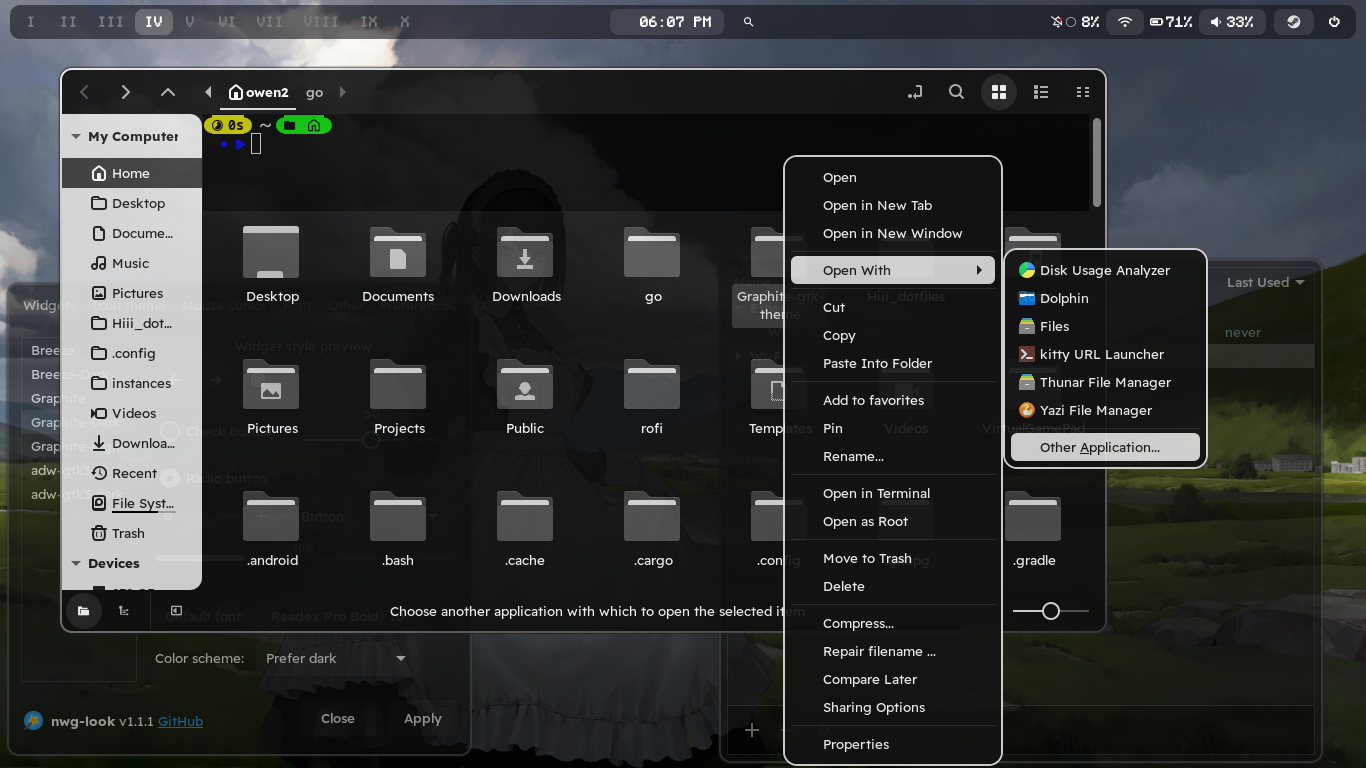
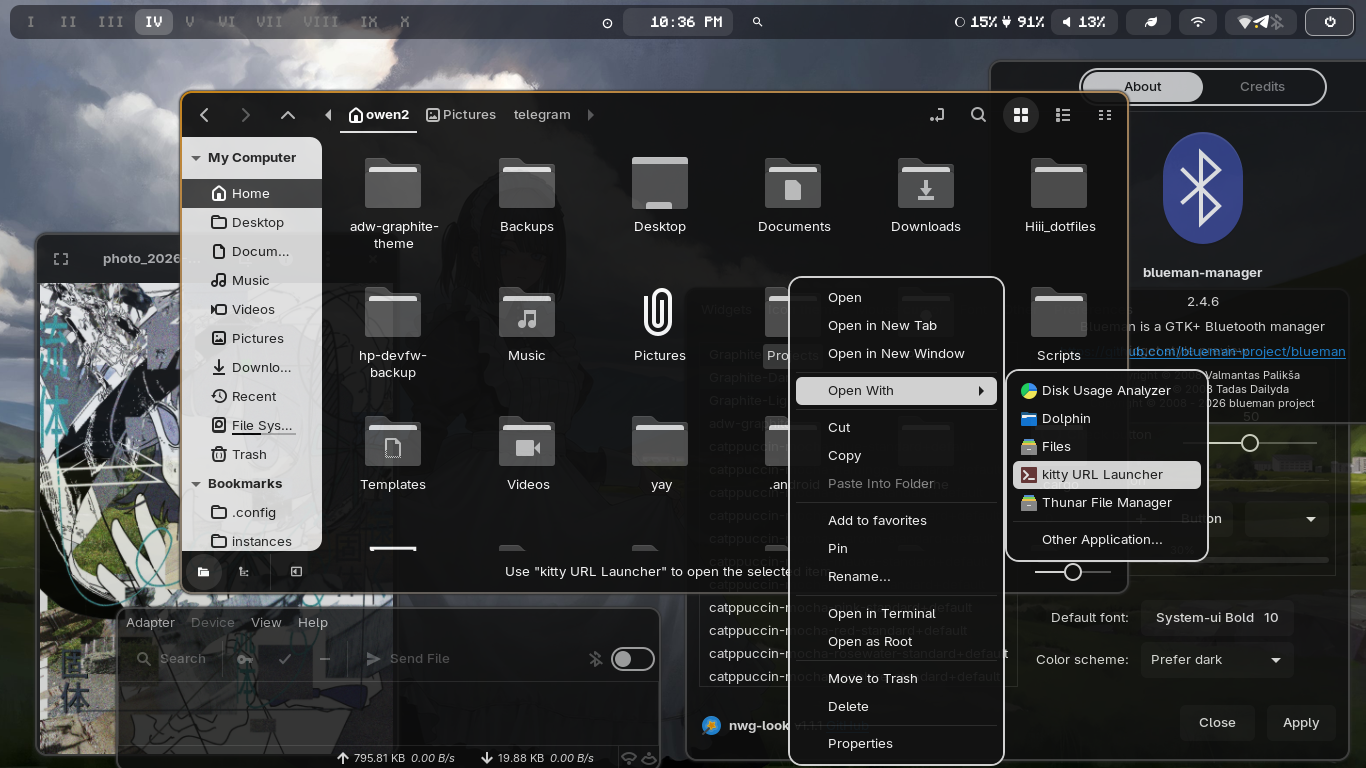
NEW BIG UPDATE

diff --git a/README.md b/README.md
@@ -22,10 +22,12 @@
 
 <div align="center">
   <img src="screenshots/main.png" alt="Hyprland Setup Overview" width="85%">
+  <img src="screenshots/larp.png" alt="pure larp nothing to say" width="85%">
   <img src="screenshots/overview.png" alt="Yayuuu Overview" width="85%">
   <img src="screenshots/rofi.png" alt="rofi" width="85%">
   <img src="screenshots/gtk.png" alt="nemo gtk themed" width="85%">
   <img src="screenshots/swaync.png" alt="swaync" width="85%">
+  <img src="screenshots/notifications.png" alt="notifications" width="85%">
   <img src="screenshots/wlogout.png" alt="wlogout" width="85%">
 </div>
 
